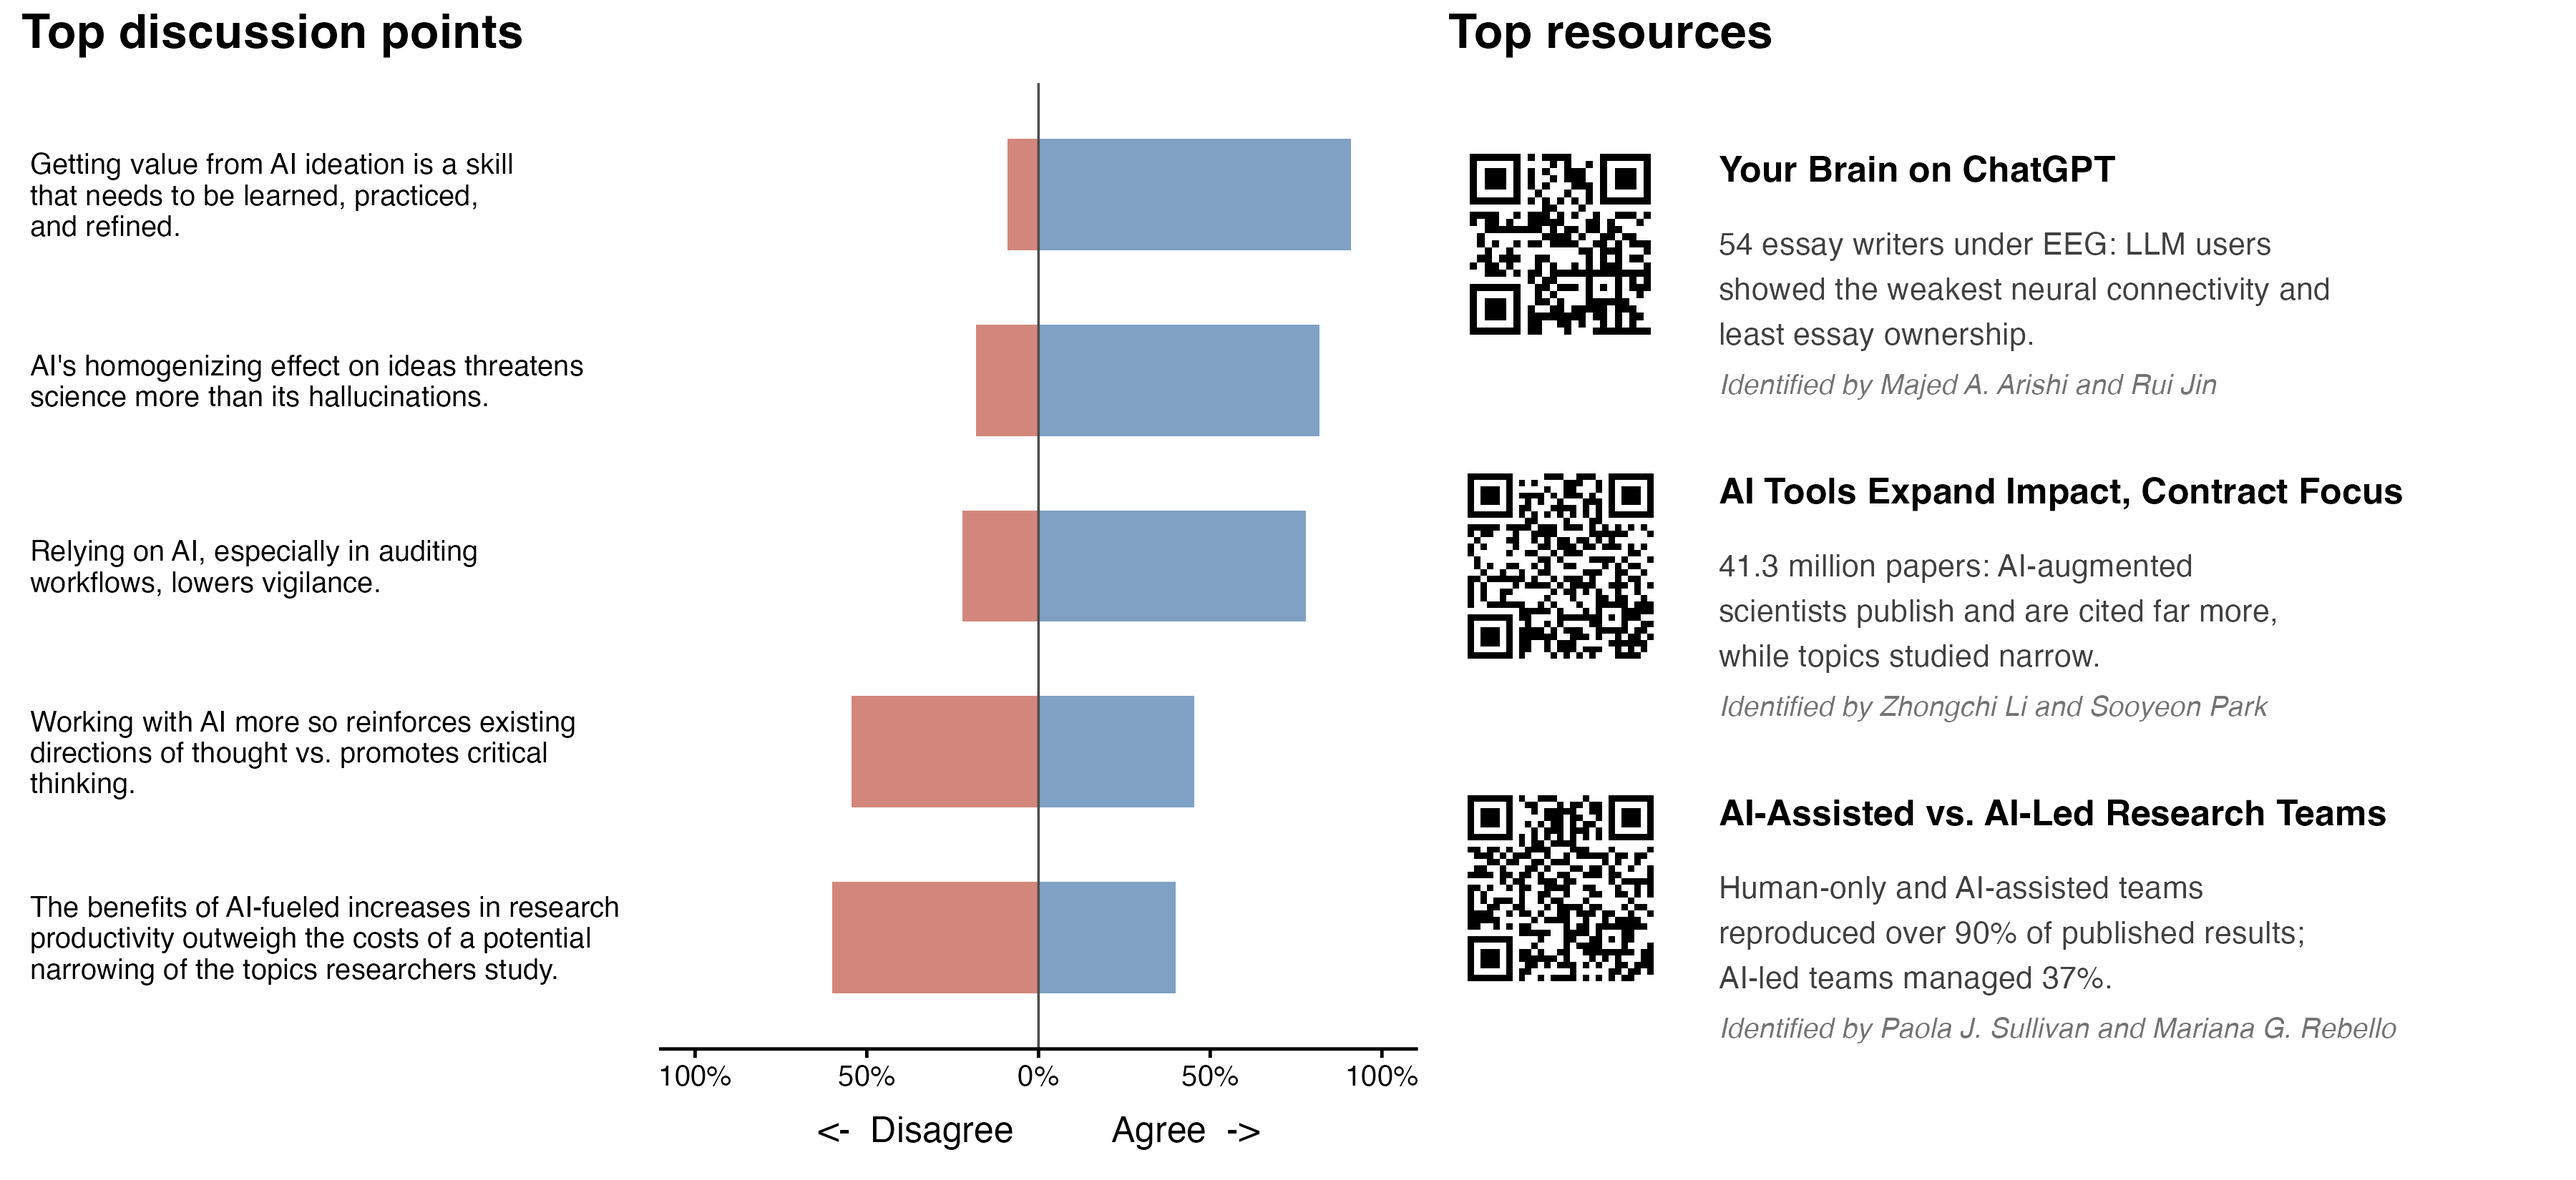
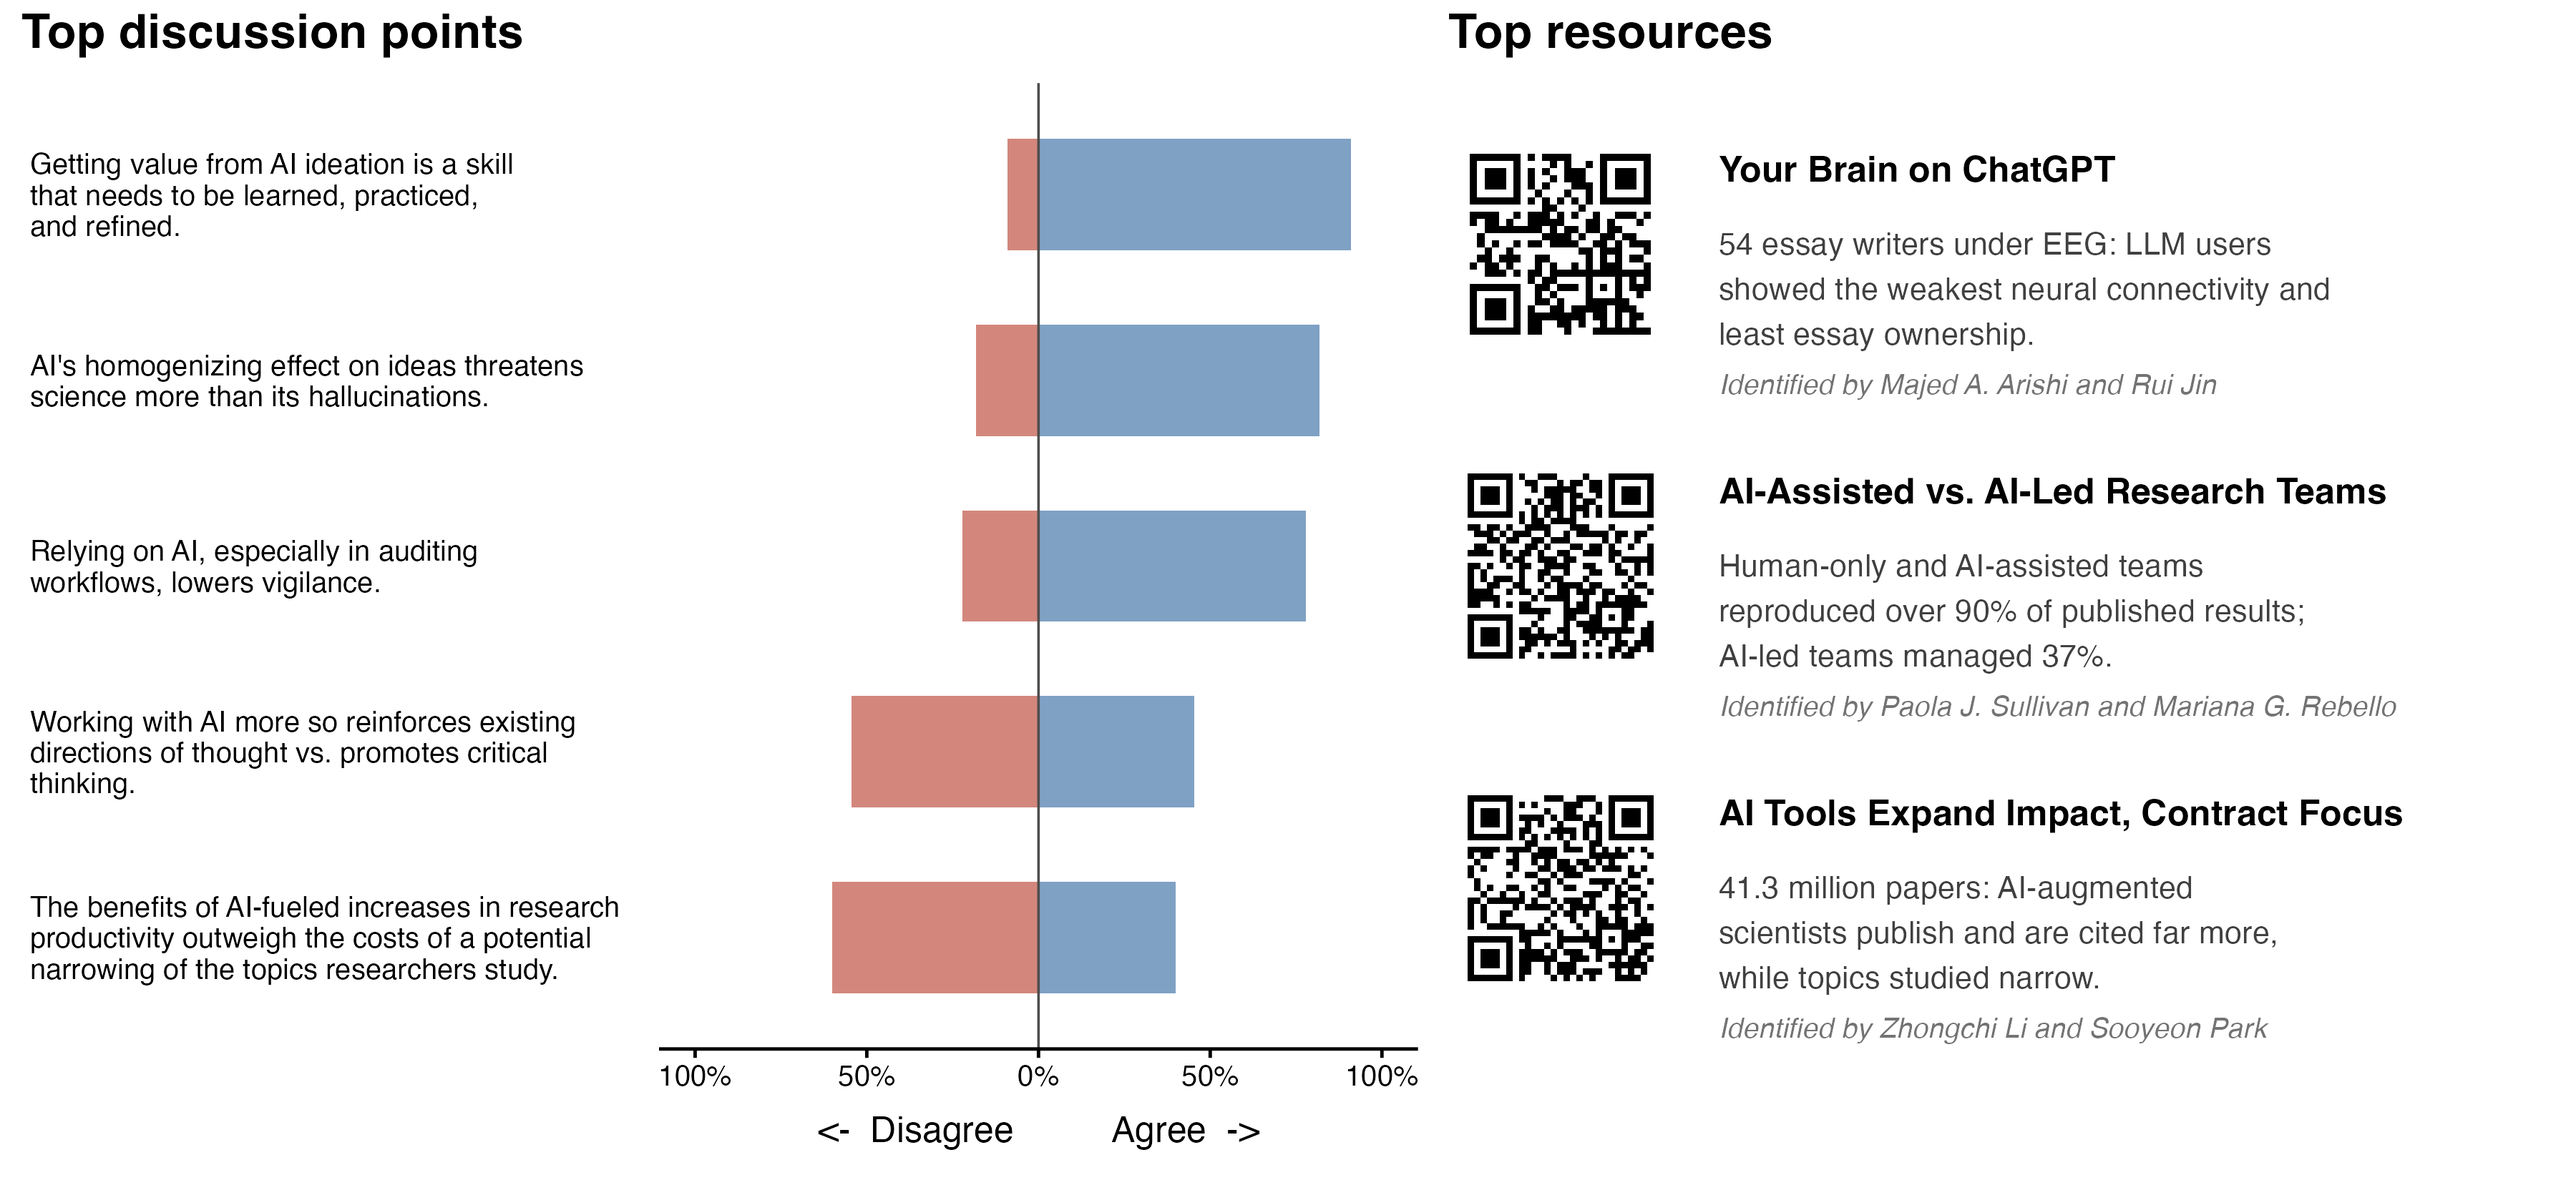
Add Week 9 chapter and order summary-figure resources by discussion
Week 9 (Ethics: Who Does Science?) gets its chapter text, summary figure
data, a weapons-of-math-destruction illustration, and new references.
Resource panels in weeks 3-6, 8 and 9 now follow the order the chapter
discusses them, and long credit lines wrap instead of running off the
figure.

diff --git a/figure-packages/week-summary/README.md b/figure-packages/week-summary/README.md
@@ -114,7 +114,9 @@ week-summary/
 │  ├─ week-07-statements.csv       week 7 discussion points
 │  ├─ week-07-resources.csv        week 7 resources
 │  ├─ week-08-statements.csv       week 8 discussion points
-│  └─ week-08-resources.csv        week 8 resources
+│  ├─ week-08-resources.csv        week 8 resources
+│  ├─ week-09-statements.csv       week 9 discussion points
+│  └─ week-09-resources.csv        week 9 resources
 └─ figures/
    └─ week-NN-summary.png          300 dpi raster, for proofing
 ```
@@ -137,6 +139,7 @@ looks like it matches the week number.
 | 6 | [pol.is/6ncmz42nce](https://pol.is/6ncmz42nce) (no report yet) | [pol.is/3fetjrsr3d](https://pol.is/3fetjrsr3d) (no report yet) | tab "Wk 5 Use Data" |
 | 7 | [r8rav2rbxe8r9renuku3x](https://pol.is/report/r8rav2rbxe8r9renuku3x) | [pol.is/6kzczb6kwn](https://pol.is/6kzczb6kwn) (no report yet) | [gid=1379349204](https://docs.google.com/spreadsheets/d/1ANIdsjrg5aG4lP4E491NaluIDMXhNLgp/edit?gid=1379349204) |
 | 8 | [r7fvae9dcbkdnhhuafdrc](https://pol.is/report/r7fvae9dcbkdnhhuafdrc) | [pol.is/2cvhhymema](https://pol.is/2cvhhymema) (no report yet) | [gid=43677910](https://docs.google.com/spreadsheets/d/1ANIdsjrg5aG4lP4E491NaluIDMXhNLgp/edit?gid=43677910) |
+| 9 | [r7pxadfkedbhnjn8b5bbe](https://pol.is/report/r7pxadfkedbhnjn8b5bbe) | [pol.is/9yf9fdaktc](https://pol.is/9yf9fdaktc) (no report yet) | [gid=805361559](https://docs.google.com/spreadsheets/d/1ANIdsjrg5aG4lP4E491NaluIDMXhNLgp/edit?gid=805361559) |
 
 Polis exports without a login, which is what makes the numbers checkable:
 
@@ -166,6 +169,11 @@ is deliberate. Resource votes are mostly passes — a participant who has not
 read a paper passes on it — so an agree *share* rewards a resource that two
 people saw and one liked over a resource that five people saw and four liked.
 The three resources drawn are the three with the most agree votes.
+
+They are drawn in CSV order, top to bottom, and the CSV lists them in the
+order the chapter prose first discusses them, so a reader moving from the text
+to the figure meets them in the same sequence. A resource the prose never
+mentions goes last.
 
 ### Statements are wrapped, not shortened
 
